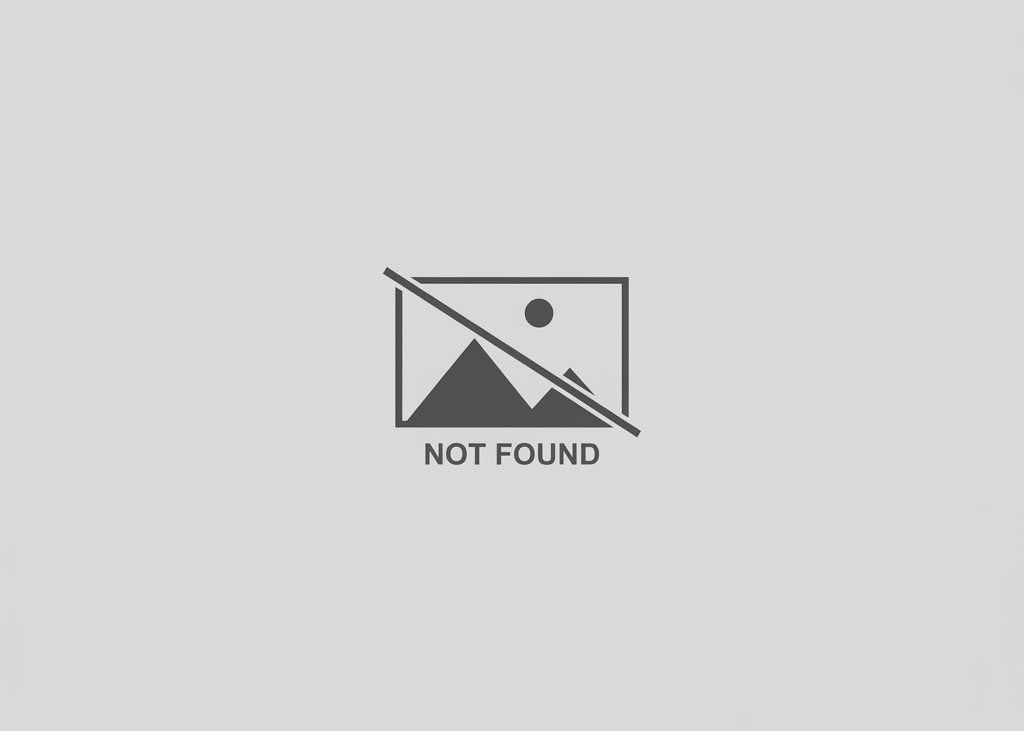
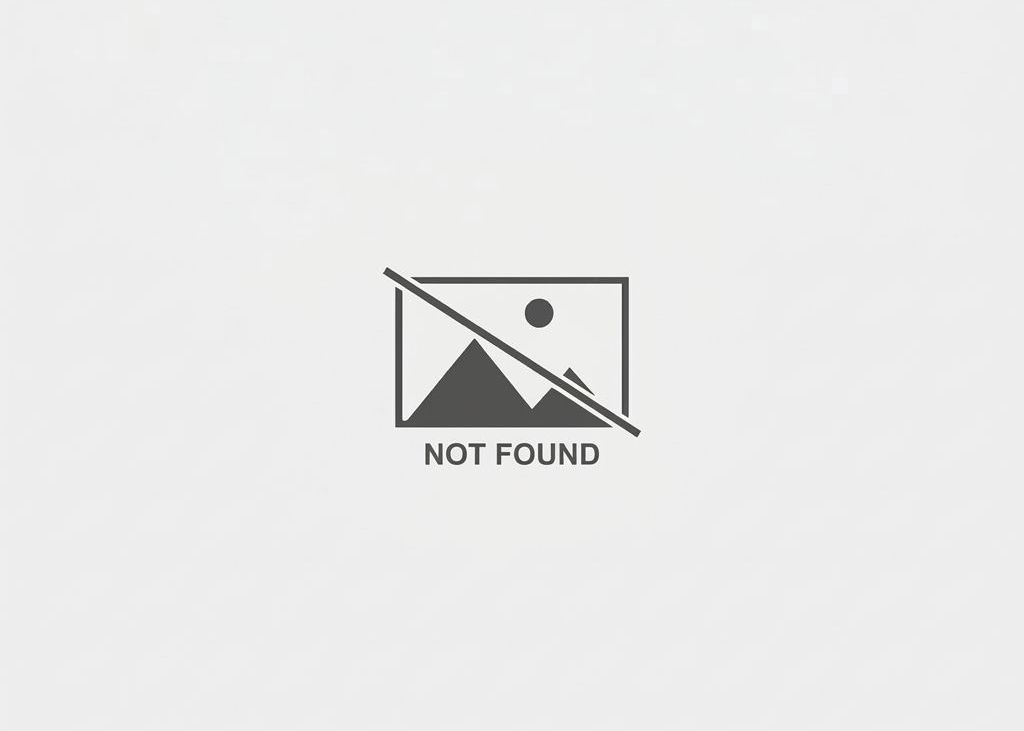
File lookup explicitly based on `LOCAL_MEDIA_STORAGE` setting

diff --git a/backend/applications/tests/test_pdf_rendering.py b/backend/applications/tests/test_pdf_rendering.py
@@ -112,8 +112,9 @@ class QuestionItemBuilderTests(TestCase):
         self.assertTrue(other_files[0]["is_missing"])
         self.assertIn("Missing file", other_files[0]["name"])
 
-    @patch('applications.models.os.path.exists')
-    def test_build_question_item_for_image_missing_with_local_storage(self, mock_exists):
+    @patch('applications.models.settings.LOCAL_MEDIA_STORAGE', True)
+    @patch('applications.models.os.path.getsize')
+    def test_build_question_item_for_image_missing_with_local_storage(self, mock_getsize):
         """_build_question_item marks missing local image with is_missing=True and placeholder file_src."""
         # Simulate local file storage where file doesn't exist
         mock_attachment = Mock()
@@ -124,17 +125,9 @@ class QuestionItemBuilderTests(TestCase):
         type(mock_attachment.file).path = PropertyMock(
             return_value="/media/attachments/photo.png"
         )
-        # .file.url returns a valid URL for fallback
-        type(mock_attachment.file).url = PropertyMock(
-            return_value="https://example.com/media/photo.png"
-        )
-        # .file.size raises ResourceNotFoundError (fallback also fails)
-        type(mock_attachment.file).size = PropertyMock(
-            side_effect=ResourceNotFoundError("File not found in storage")
-        )
         
-        # Mock os.path.exists to return False (file doesn't exist in local storage)
-        mock_exists.return_value = False
+        # Mock os.path.getsize to raise OSError (file doesn't exist in local storage)
+        mock_getsize.side_effect = OSError("File not found")
 
         attachments_by_key = {
             "image-key-1": mock_attachment,
@@ -192,9 +185,9 @@ class QuestionItemBuilderTests(TestCase):
         self.assertIn("image-not-found.png", image_file["file_src"], "file_src must include placeholder image")
         self.assertEqual(image_file["file_size"], "0\xa0bytes", "file_size must be 0 bytes when missing")
 
-    @patch('applications.models.os.path.exists')
+    @patch('applications.models.settings.LOCAL_MEDIA_STORAGE', True)
     @patch('applications.models.os.path.getsize')
-    def test_build_question_item_for_image_existing_with_local_storage(self, mock_getsize, mock_exists):
+    def test_build_question_item_for_image_existing_with_local_storage(self, mock_getsize):
         """_build_question_item correctly handles existing local image with file size."""
         mock_attachment = Mock()
         mock_attachment.name = "landscape.jpg"
@@ -205,8 +198,6 @@ class QuestionItemBuilderTests(TestCase):
             return_value="/media/attachments/2025-01/app123/landscape.jpg"
         )
         
-        # Mock os.path.exists to return True (file exists)
-        mock_exists.return_value = True
         # Mock os.path.getsize to return a file size
         mock_getsize.return_value = 1536000  # 1.5 MB
 
@@ -335,9 +326,9 @@ class QuestionItemBuilderTests(TestCase):
         self.assertTrue(file_item["is_missing"], "is_missing should be True when Azure blob doesn't exist")
         self.assertEqual(file_item["file_size"], "0\xa0bytes", "file_size should be 0 bytes when missing")
 
-    @patch('applications.models.os.path.exists')
+    @patch('applications.models.settings.LOCAL_MEDIA_STORAGE', True)
     @patch('applications.models.os.path.getsize')
-    def test_build_question_item_for_multiple_files_mixed_missing_existing(self, mock_getsize, mock_exists):
+    def test_build_question_item_for_multiple_files_mixed_missing_existing(self, mock_getsize):
         """_build_question_item handles mix of existing and missing files correctly."""
         # Existing image
         mock_image = Mock()
@@ -346,17 +337,11 @@ class QuestionItemBuilderTests(TestCase):
         type(mock_image.file).path = PropertyMock(return_value="/media/photo.jpg")
         type(mock_image.file).size = PropertyMock(return_value=512000)
         
-        # Missing image - .path raises OSError; fallback Azure also fails
+        # Missing image - os.path.getsize raises OSError
         mock_missing_image = Mock()
         mock_missing_image.name = "missing.png"
         mock_missing_image.key = "img-2"
-        type(mock_missing_image.file).path = PropertyMock(side_effect=OSError("Not found"))
-        type(mock_missing_image.file).url = PropertyMock(
-            return_value="https://example.com/missing.png"
-        )
-        type(mock_missing_image.file).size = PropertyMock(
-            side_effect=ResourceNotFoundError("Not found in storage")
-        )
+        type(mock_missing_image.file).path = PropertyMock(return_value="/media/missing.png")
         
         # Existing non-image
         mock_doc = Mock()
@@ -364,11 +349,13 @@ class QuestionItemBuilderTests(TestCase):
         mock_doc.key = "file-1"
         type(mock_doc.file).size = PropertyMock(return_value=1024000)
 
-        # Mock os.path.exists to return True (existing image file exists)
-        # Note: This patches all calls to os.path.exists
-        mock_exists.return_value = True
-        # Mock os.path.getsize to return the size for the existing image
-        mock_getsize.return_value = 512000
+        # Mock os.path.getsize to return size for existing file and raise for missing
+        def getsize_side_effect(path):
+            if "missing" in path:
+                raise OSError("File not found")
+            return 512000  # Size for photo.jpg
+
+        mock_getsize.side_effect = getsize_side_effect
 
         attachments_by_key = {
             "img-1": mock_image,

diff --git a/backend/applications/models.py b/backend/applications/models.py
@@ -170,18 +170,19 @@ def _build_question_item(
             file_size = 0
 
             if is_image:
-                # For local storage Prince reads the file via a file:// URI.
-                # For Azure (or any remote storage) that will raise `NotImplementedError`
-                # when we attempt to access the file path, so we fall back to the storage URL.
-                # If the file is missing, use the placeholder image instead.
-                try:
-                    file_path = attachment.file.path
-                    if not os.path.exists(file_path):
-                        raise OSError("Local file not found")
-                    file_src = "file://" + file_path
-                    file_size = os.path.getsize(file_path)
-                except (NotImplementedError, OSError):
-                    # Local storage failed; try remote storage URL
+                # Determine storage backend based on configuration and access accordingly.
+                # Local storage: file:// URIs for Prince; remote storage: signed URLs.
+                if settings.LOCAL_MEDIA_STORAGE:
+                    # Local file storage: read file directly from filesystem.
+                    try:
+                        file_path = attachment.file.path
+                        file_size = os.path.getsize(file_path)
+                        file_src = "file://" + file_path
+                    except OSError:
+                        is_missing = True
+                        file_src = f"file://{settings.STATIC_ROOT}/images/image-not-found.png"
+                else:
+                    # Remote storage (Azure Blob): use signed URL and API calls.
                     try:
                         file_src = attachment.file.url
                         file_size = attachment.file.size
